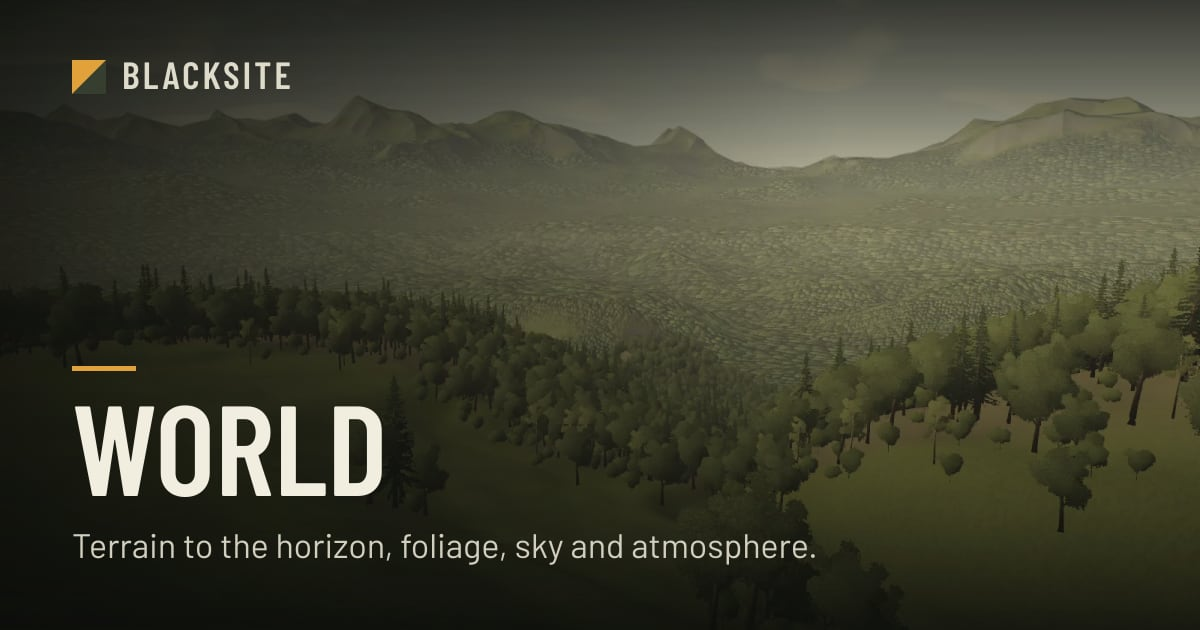
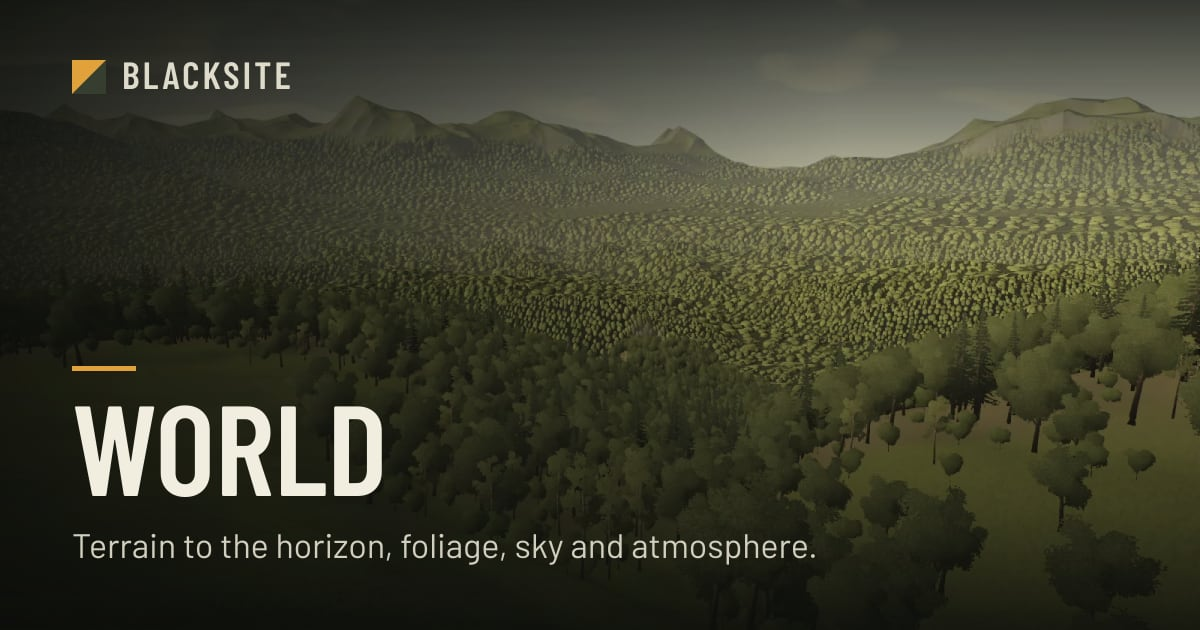
Round 4 beauty: view-shaped far crowns with dark gaps and a clear-air haze distance, a balanced meadow, forested valley floors, sharper phone impostors
- look: physical.clear keeps the near air haze-free (NATURE 1500 m, mie 24)
- landscape: canopy crowns are camera-facing spheres stretched by the grazing angle, nearer crowns overlap, sun-away sides and gaps go dark; impostor blur option (forest impostorBlur)
- valley: larger 8 m canopy crowns with yellow-green tops; knee-high patchy grass with seed heads, taller at forest edges and stones, straw patches in the carpet; meadow limited to the hilltop so lower slopes and valley floors are forest; phone impostors at 160 px with less mip blur; refreshed thumbnail and share image

diff --git a/packages/landscape/src/terrain.ts b/packages/landscape/src/terrain.ts
@@ -206,21 +206,34 @@ uniform vec3 terrainViewer;
 uniform vec4 canopyParams;
 uniform vec3 canopyColor;
 uniform vec3 canopyShade;
-vec4 bsCrowns(vec2 p, uint salt) {
+vec4 bsCrowns(vec2 p, uint salt, vec3 view, out float cover) {
   vec2 cell = floor(p);
   vec2 local = p - cell;
-  float top = -1.0;
-  vec4 result = vec4(0.0, 0.0, -1.0, 0.5);
+  vec2 along = view.xy;
+  vec2 side = vec2(-along.y, along.x);
+  float sine = view.z;
+  float cosine = sqrt(max(1.0 - sine * sine, 0.0));
+  float squash = max(sine, 0.3);
+  vec2 stretch = vec2(sqrt(squash), inversesqrt(squash));
+  float top = -1e9;
+  cover = -1.0;
+  vec4 result = vec4(0.0, 1.0, 0.0, 0.5);
   for (int j = -1; j <= 1; j++) for (int i = -1; i <= 1; i++) {
     ivec2 id = ivec2(cell) + ivec2(i, j);
     vec2 centre = vec2(float(i), float(j)) + 0.2 + 0.6 * vec2(bsHash(id, salt), bsHash(id, salt + 2u));
-    float radius = 0.38 + 0.3 * bsHash(id, salt + 4u);
+    float radius = 0.4 + 0.3 * bsHash(id, salt + 4u);
     vec2 r = local - centre;
-    float d2 = dot(r, r) / (radius * radius);
-    float h = sqrt(max(1.0 - d2, 0.0)) * radius + bsHash(id, salt + 6u) * 0.35;
-    if (d2 < 1.0 && h > top) { top = h; result = vec4(normalize(vec3(r / radius, sqrt(max(1.0 - d2, 0.02)))), bsHash(id, salt + 8u)); }
+    vec2 e = vec2(dot(r, side), dot(r, along)) / (radius * stretch);
+    float d2 = dot(e, e);
+    float z = sqrt(max(1.0 - d2, 0.0));
+    float key = (z * radius + bsHash(id, salt + 6u) * 0.35) * sine - dot(centre, along) * cosine;
+    if (d2 < 1.0 && key > top) { top = key; cover = z; result = vec4(e, max(z, 0.14), bsHash(id, salt + 8u)); }
   }
-  return result;
+  if (cover < 0.0) return result;
+  vec3 c = vec3(-along.x * cosine, sine, -along.y * cosine);
+  vec3 u = vec3(along.x * sine, cosine, along.y * sine);
+  vec3 s = vec3(side.x, 0.0, side.y);
+  return vec4(normalize(s * result.x + u * result.y + c * result.z), result.w);
 }
 uniform float terrainDetail;
 uniform vec2 terrainCoverShade;
@@ -283,24 +296,34 @@ if (vTerrainCanopy > 0.001) {
   float l0 = min(floor(level), 2.0);
   float lf = level - l0;
   float s0 = canopyParams.w * exp2(l0);
+  vec3 bsToEye = cameraPosition - vTerrainWorld;
+  vec2 bsAway = -bsToEye.xz / max(length(bsToEye.xz), 1e-3);
+  vec3 bsView = vec3(bsAway, clamp(dot(bsToEye, bsBase) / max(length(bsToEye), 1e-3), 0.0, 1.0));
+  float k0;
+  float k1;
 #ifdef CANOPY_DITHER
   float pick = step(fract(52.9829189 * fract(dot(gl_FragCoord.xy, vec2(0.06711056, 0.00583715)))), lf);
-  vec4 c0 = bsCrowns(vTerrainWorld.xz / (s0 * (1.0 + pick)), pick > 0.5 ? 74u + uint(l0) * 13u : 61u + uint(l0) * 13u);
+  vec4 c0 = bsCrowns(vTerrainWorld.xz / (s0 * (1.0 + pick)), pick > 0.5 ? 74u + uint(l0) * 13u : 61u + uint(l0) * 13u, bsView, k0);
   vec4 c1 = c0;
+  k1 = k0;
 #else
-  vec4 c0 = bsCrowns(vTerrainWorld.xz / s0, 61u + uint(l0) * 13u);
-  vec4 c1 = bsCrowns(vTerrainWorld.xz / (s0 * 2.0), 74u + uint(l0) * 13u);
+  vec4 c0 = bsCrowns(vTerrainWorld.xz / s0, 61u + uint(l0) * 13u, bsView, k0);
+  vec4 c1 = bsCrowns(vTerrainWorld.xz / (s0 * 2.0), 74u + uint(l0) * 13u, bsView, k1);
 #endif
-  vec3 dome = normalize(mix(c0.z < 0.0 ? vec3(0.0, 0.0, 1.0) : c0.xyz, c1.z < 0.0 ? vec3(0.0, 0.0, 1.0) : c1.xyz, lf));
-  float top = mix(c0.z, c1.z, lf);
+  vec3 lump = normalize(mix(c0.xyz, c1.xyz, lf));
+  float top = mix(k0, k1, lf);
+  float rim = mix(max(k0, 0.0), max(k1, 0.0), lf);
   float tone = mix(fract(c0.w), fract(c1.w), lf);
   float covered = smoothstep(-0.6, 0.2, top);
   float relief = 1.0 / (1.0 + level * 0.3);
-  vec3 lump = normalize(vec3(dome.x, dome.z * 0.9, dome.y));
   vec3 canopyNormal = normalize(mix(bsBase, lump, (0.68 * covered + 0.15) * lumpFade * relief + 0.1));
-  float crownAo = mix(0.78 - 0.62 * relief, mix(0.3, 1.0, smoothstep(0.0, 0.8, dome.z)), covered);
+  float sunSide = 1.0;
+#if NUM_DIR_LIGHTS > 0
+  sunSide = smoothstep(-0.25, 0.55, dot(normalize((viewMatrix * vec4(lump, 0.0)).xyz), directionalLights[0].direction));
+#endif
+  float crownAo = mix(0.52 - 0.48 * relief, mix(0.16, 1.0, smoothstep(0.0, 0.75, rim)) * mix(0.28, 1.0, sunSide), covered);
   vec3 cellAlbedo = mix(canopyShade, canopyColor * (0.62 + tone * 0.76), crownAo);
-  vec3 meanAlbedo = mix(canopyShade, canopyColor * 0.95, 0.76);
+  vec3 meanAlbedo = mix(canopyShade, canopyColor * 0.95, 0.5);
   vec3 canopyAlbedo = mix(meanAlbedo, cellAlbedo, lumpFade);
   canopyAlbedo *= 0.85 + bsMacro * 0.3;
   bsAlbedo = mix(bsAlbedo, canopyAlbedo, vTerrainCanopy);

diff --git a/examples/valley/src/Landscape.tsx b/examples/valley/src/Landscape.tsx
@@ -36,7 +36,7 @@ export function Landscape({ world, tier, wind, sun, bark, handle }: { world: Val
         { tile: 2.2, tint: [0.92, 0.84, 0.72], roughness: 0.9, normalScale: 1 },
         { tile: 3.5, tint: [0.86, 0.84, 0.8], roughness: 0.85, normalScale: 1.2 },
       ],
-      canopy: { height: canopy.height, start: settings.impostorFar[0] - canopy.lead, end: settings.impostorFar[1] - canopy.lead, crown: canopy.crown, color: [0.09, 0.118, 0.036], shade: [0.012, 0.02, 0.008], dither: tier === 'low' },
+      canopy: { height: canopy.height, start: settings.impostorFar[0] - canopy.lead, end: settings.impostorFar[1] - canopy.lead, crown: canopy.crown, color: [0.125, 0.15, 0.03], shade: [0.004, 0.007, 0.009], dither: tier === 'low' },
       detailDistance: tier === 'low' ? 140 : 260,
       coverShade: { distance: settings.coverDistance, strength: 0.4 },
       shadowDistance: settings.shadowDistance,
@@ -50,8 +50,8 @@ export function Landscape({ world, tier, wind, sun, bark, handle }: { world: Val
       density: settings.coverDensity,
       alphaToCoverage: settings.a2c,
       families: [
-        { name: 'sward', shape: 'clump', perPatch: 1800, mask: MEADOW, height: 'mix(0.55, 1.45, smoothstep(0.25, 0.8, bsNoise(bsRoot * 0.022, 81u)))', size: [0.05, 0.11], width: 2.3, quads: 2, texture: grassTexture(128, 29), colors: [[0.44, 0.6, 0.25], [0.66, 0.65, 0.35], [0.6, 0.66, 0.34]], bend: 0.3, translucency: 0.35, ao: 0.72, roughness: 0.85 },
-        { name: 'stalks', shape: 'clump', perPatch: 110, mask: `${MEADOW} * (0.04 + 0.96 * smoothstep(0.52, 0.76, bsNoise(bsRoot * 0.05, 83u)))`, height: 'mix(0.7, 1.25, bsNoise(bsRoot * 0.03, 85u))', size: [0.3, 0.6], width: 0.55, quads: 2, texture: grassTexture(), colors: [[0.6, 0.62, 0.34], [0.78, 0.72, 0.44], [0.9, 0.82, 0.56]], bend: 0.42, translucency: 0.4, ao: 0.55, roughness: 0.82 },
+        { name: 'sward', shape: 'clump', perPatch: 1800, mask: MEADOW, height: 'mix(0.55, 1.45, smoothstep(0.25, 0.8, bsNoise(bsRoot * 0.022, 81u)))', size: [0.05, 0.11], width: 2.3, quads: 2, texture: grassTexture(128, 29), colors: [[0.44, 0.6, 0.25], [0.76, 0.69, 0.4], [0.6, 0.66, 0.34]], bend: 0.3, translucency: 0.35, ao: 0.72, roughness: 0.85 },
+        { name: 'tall', shape: 'clump', perPatch: 430, mask: `${MEADOW} * clamp(0.06 + smoothstep(0.44, 0.64, bsNoise(bsRoot * 0.04, 83u) * 0.65 + bsNoise(bsRoot * 0.13, 89u) * 0.35) + smoothstep(0.06, 0.3, bsSurface.b) * 0.9 + smoothstep(0.5, 0.7, bsNoise(bsRoot * 0.05, 87u)) * 0.7, 0.0, 1.0)`, height: 'mix(0.75, 1.2, bsNoise(bsRoot * 0.03, 85u)) * (1.0 + 0.35 * smoothstep(0.06, 0.3, bsSurface.b))', size: [0.34, 0.7], width: 0.75, quads: 3, texture: grassTexture(), colors: [[0.54, 0.62, 0.3], [0.8, 0.72, 0.42], [0.9, 0.82, 0.55]], bend: 0.42, translucency: 0.4, ao: 0.55, roughness: 0.82 },
         { name: 'flowers', shape: 'flower', perPatch: 60, mask: `${MEADOW} * (0.3 + 0.7 * smoothstep(0.45, 0.7, bsNoise(bsRoot * 0.045, 71u)))`, size: [0.16, 0.3], width: 0.4, texture: flowerTexture(), colors: [[1, 0.84, 0.3], [1, 1, 1], [0.78, 0.62, 1]], bend: 0.3, translucency: 0.25, ao: 0.6, fade: 0.8 },
         { name: 'stones', shape: 'pebble', perPatch: 3, mask: `${MEADOW} * smoothstep(0.52, 0.78, bsNoise(bsRoot * 0.05, 87u))`, size: [0.18, 0.5], colors: [[0.56, 0.54, 0.5], [0.66, 0.63, 0.58], [0.48, 0.46, 0.42]], ao: 1, fade: 0.6, roughness: 0.8 },
         { name: 'understory', shape: 'clump', perPatch: 70, mask: 'smoothstep(0.35, 0.7, bsSurface.b) * smoothstep(0.35, 0.6, bsNoise(bsRoot * 0.06, 73u)) * (1.0 - bsSurface.a)', size: [0.35, 0.65], width: 1.1, quads: 3, texture: grassTexture(256, 19), colors: [[0.42, 0.5, 0.26], [0.55, 0.58, 0.3], [0.7, 0.62, 0.36]], bend: 0.3, translucency: 0.3, ao: 0.35, fade: 0.75 },
@@ -89,6 +89,7 @@ export function Landscape({ world, tier, wind, sun, bark, handle }: { world: Val
       far: settings.impostorFar,
       shadowDistance: settings.shadowDistance,
       frameSize: settings.frameSize,
+      impostorBlur: settings.impostorBlur,
       alphaToCoverage: settings.a2c,
       singleFrame: settings.singleFrame,
       sun: sunState,

diff --git a/examples/valley/src/model.ts b/examples/valley/src/model.ts
@@ -19,12 +19,12 @@ export const site = {
 } as const
 
 export const tiers = {
-  high: { trees: 64000, nearTrees: 70, nearFade: [48, 70] as const, impostorFar: [640, 940] as const, frameSize: 192, coverDistance: 75, coverDensity: 1, cascades: 3, shadowDistance: 180, shadowMap: 2048, a2c: true, singleFrame: false },
-  medium: { trees: 44000, nearTrees: 58, nearFade: [40, 58] as const, impostorFar: [560, 820] as const, frameSize: 160, coverDistance: 60, coverDensity: 0.8, cascades: 2, shadowDistance: 130, shadowMap: 2048, a2c: true, singleFrame: false },
-  low: { trees: 28000, nearTrees: 42, nearFade: [28, 42] as const, impostorFar: [440, 660] as const, frameSize: 128, coverDistance: 45, coverDensity: 0.8, cascades: 2, shadowDistance: 90, shadowMap: 1024, a2c: false, singleFrame: true },
+  high: { trees: 64000, nearTrees: 70, nearFade: [48, 70] as const, impostorFar: [640, 940] as const, frameSize: 192, impostorBlur: 1.25, coverDistance: 75, coverDensity: 1, cascades: 3, shadowDistance: 180, shadowMap: 2048, a2c: true, singleFrame: false },
+  medium: { trees: 44000, nearTrees: 58, nearFade: [40, 58] as const, impostorFar: [560, 820] as const, frameSize: 160, impostorBlur: 1.25, coverDistance: 60, coverDensity: 0.8, cascades: 2, shadowDistance: 130, shadowMap: 2048, a2c: true, singleFrame: false },
+  low: { trees: 28000, nearTrees: 42, nearFade: [28, 42] as const, impostorFar: [440, 660] as const, frameSize: 160, impostorBlur: 0.5, coverDistance: 45, coverDensity: 0.8, cascades: 2, shadowDistance: 90, shadowMap: 1024, a2c: false, singleFrame: true },
 } as const
 
-export const canopy = { height: 13, crown: 5.5, lead: 90 } as const
+export const canopy = { height: 13, crown: 8, lead: 90 } as const
 
 export const locomotion = {
   walk: 1.75,

diff --git a/examples/valley/src/world.ts b/examples/valley/src/world.ts
@@ -163,17 +163,18 @@ export async function buildValley(tier: Tier, onProgress: (value: number) => voi
   const sources: TerrainSources = { near, far, nearSurface: null as never, farSurface: null as never, band: site.band }
   const heightAtWorld = (x: number, z: number) => terrainHeightAt(sources, x, z)
 
+  const summit = heightAt(far, site.meadowCentre[0], site.meadowCentre[1])
   const forest = (x: number, z: number) => {
     const wobble = (fbm(x / 140, z / 140, 3, 501) - 0.5) * 190
-    const meadow = 1 - smoothstep(site.meadowRadius - 50, site.meadowRadius + 70, Math.hypot(x - site.meadowCentre[0], z - site.meadowCentre[1]) + wobble)
     const h = heightAt(far, x, z)
+    const meadow = (1 - smoothstep(site.meadowRadius - 50, site.meadowRadius + 70, Math.hypot(x - site.meadowCentre[0], z - site.meadowCentre[1]) + wobble)) * smoothstep(summit - 70, summit - 35, h + wobble * 0.15)
     const local = 1 - smoothstep(900, 1400, Math.hypot(x, z))
     const relief = 1 - smoothstep(pathTop - 20, pathTop + 70, h) * local
     const patches = fbm(x / 260, z / 260, 3, 503)
     let density = smoothstep(0.3, 0.46, patches * 0.6 + relief * 0.35 + 0.12)
     density *= 1 - meadow
     density *= 1 - smoothstep(site.treeline - 220, site.treeline, h)
-    density *= 1 - smoothstep(34, 46, slopeAt(far, x, z))
+    density *= 1 - smoothstep(40, 54, slopeAt(far, x, z))
     const grove = smoothstep(0.8, 0.88, valueNoise(x / 34, z / 34, 507)) * meadow * (1 - smoothstep(site.meadowRadius * 0.45, site.meadowRadius * 0.7, Math.hypot(x, z)) * 0)
     density = Math.max(density, grove * 0.9)
     const lane = pathDistance(x, z)

diff --git a/packages/landscape/src/impostor.ts b/packages/landscape/src/impostor.ts
@@ -229,6 +229,7 @@ uniform sampler2D impostorNormal;
 uniform float impostorFrames;
 uniform vec3 impostorTint;
 uniform float impostorContact;
+uniform float impostorBlur;
 varying vec2 vImpostorGrid;
 varying vec2 vImpostorUv;
 varying vec3 vImpostorFade;
@@ -242,7 +243,7 @@ vec2 bsFrameUv(vec2 frame) {
 
 const FRAGMENT_SAMPLE = /* glsl */ `
 float bsSmudge = vImpostorFade.z;
-float bsBias = bsSmudge * 1.25;
+float bsBias = bsSmudge * impostorBlur;
 #ifdef IMPOSTOR_SINGLE
 vec2 bsFrame = clamp(floor(vImpostorGrid + 0.5), vec2(0.0), vec2(impostorFrames - 1.0));
 vec4 bsA = texture2D(impostorAlbedo, bsFrameUv(bsFrame), bsBias);
@@ -290,6 +291,7 @@ export interface ImpostorMaterialOptions {
   readonly singleFrame?: boolean
   readonly tint?: readonly [number, number, number]
   readonly contact?: number
+  readonly blur?: number
 }
 
 export function createImpostorMaterial(options: ImpostorMaterialOptions): MeshStandardMaterial {
@@ -306,6 +308,7 @@ export function createImpostorMaterial(options: ImpostorMaterialOptions): MeshSt
     impostorRange: { value: new Vector4(...options.range) },
     impostorTint: { value: new Vector3(...(options.tint ?? [1, 1, 1])) },
     impostorContact: { value: options.contact ?? 1 },
+    impostorBlur: { value: options.blur ?? 1.25 },
   }
   material.userData.impostor = uniforms
   patchMaterial(material, `world-impostor-${options.singleFrame ? 1 : 4}-${options.alphaToCoverage ? 'a2c' : 'cut'}`, shader => {

diff --git a/packages/look/src/physical.ts b/packages/look/src/physical.ts
@@ -32,6 +32,7 @@ export const ATMOSPHERE_CORE = `
   uniform vec3 atSun;
   uniform float atIlluminance;
   uniform float atSkyGain;
+  uniform float atClear;
 
   vec3 atExtinction(float h, out vec3 rayleigh, out float mie) {
     float height = max(h, 0.0);
@@ -424,6 +425,7 @@ export interface AtmosphereUniforms {
   readonly atSun: Uniform<Vector3>;
   readonly atIlluminance: Uniform<number>;
   readonly atSkyGain: Uniform<number>;
+  readonly atClear: Uniform<number>;
 }
 
 export interface AtmosphereLuts {
@@ -471,6 +473,7 @@ export function createAtmosphereLuts(renderer: WebGLRenderer, settings: QualityS
     atSun: new Uniform(new Vector3(0, 1, 0)),
     atIlluminance: new Uniform(1),
     atSkyGain: new Uniform(1),
+    atClear: new Uniform(0),
   };
   const geometry = new BufferGeometry();
   geometry.setAttribute('position', new Float32BufferAttribute([-1, -1, 0, 3, -1, 0, -1, 3, 0], 3));
@@ -517,6 +520,7 @@ export function createAtmosphereLuts(renderer: WebGLRenderer, settings: QualityS
       uniforms.atAltitude.value = Math.max(spec.elevation, 1) * 0.001;
       uniforms.atIlluminance.value = spec.illuminance;
       uniforms.atSkyGain.value = spec.sky ?? 1;
+      uniforms.atClear.value = spec.clear ?? 0;
       sun.set(...atmosphere.sun.direction).normalize();
       const key = mediumKey(spec);
       if (key !== medium) {

diff --git a/packages/landscape/src/forest.ts b/packages/landscape/src/forest.ts
@@ -33,6 +33,7 @@ export interface ForestOptions {
   readonly frameSize?: number
   readonly alphaToCoverage?: boolean
   readonly singleFrame?: boolean
+  readonly impostorBlur?: number
   readonly proxyLayer?: number
   readonly sun?: { readonly direction: Vector3; readonly color: Color }
   readonly seed?: number
@@ -214,7 +215,7 @@ export function createForest(options: ForestOptions): Forest {
     const atlas = bakeImpostor(options.renderer, model, textures, { frames: options.frames, frameSize: options.frameSize })
     stats.bakeMs += atlas.milliseconds
     atlases.push(atlas)
-    const impostorMaterial = createImpostorMaterial({ atlas, wind, range: [options.near[0], options.near[1], options.far[0], options.far[1]], alphaToCoverage: options.alphaToCoverage, singleFrame: options.singleFrame })
+    const impostorMaterial = createImpostorMaterial({ atlas, wind, range: [options.near[0], options.near[1], options.far[0], options.far[1]], alphaToCoverage: options.alphaToCoverage, singleFrame: options.singleFrame, blur: options.impostorBlur })
     const indices: number[] = []
     for (let index = 0; index < total; index++) if (kinds[index] === kind) indices.push(index)
     const plane = new PlaneGeometry(1, 1)

diff --git a/packages/look/src/aerial.ts b/packages/look/src/aerial.ts
@@ -45,7 +45,7 @@ const AERIAL_FRAGMENT = `
     float h1 = max(y1 + atElevation, 0.0) * 0.001;
     vec3 tauAir = (atRayleigh * atLayer(h0, h1, km, 8.0) + atMieExtinction * atLayer(h0, h1, km, 1.2)) * atAerial;
     float tauFog = atFog.x > 0.0 ? atFog.x * atLayer(max(y0 - atFog.y, 0.0), max(y1 - atFog.y, 0.0), span, atFog.z) : 0.0;
-    vec3 tau = tauAir + tauFog;
+    vec3 tau = (tauAir + tauFog) * clamp(1.0 - atClear / max(span, 1.0), 0.0, 1.0);
     vec3 transmittance = exp(-tau);
     vec3 horizon = normalize(vec3(direction.x, max(direction.y, 0.0), direction.z));
     vec3 air = atSky(horizon);
@@ -55,7 +55,7 @@ const AERIAL_FRAGMENT = `
       vec3 sunlight = atSunlight(r, atSun.y) * atPhaseHg(dot(direction, atSun), 0.55);
       fog = atFogTint * (atSky(vec3(0.0, 1.0, 0.0)) * 0.55 + air * 0.45 + sunlight);
     }
-    vec3 weight = vec3(tauFog) / max(tau, vec3(1e-6));
+    vec3 weight = vec3(tauFog) / max(tauAir + tauFog, vec3(1e-6));
     vec3 inscatter = mix(air, fog, weight) * (1.0 - transmittance);
     outputColor = vec4(inputColor.rgb * transmittance + inscatter, inputColor.a);
   }

diff --git a/packages/look/src/presets.ts b/packages/look/src/presets.ts
@@ -45,13 +45,14 @@ export const NATURE: Atmosphere = {
   grade: { lut: lut('nature'), vignette: 0.16, split: 0, aberration: 0, grain: 0.006, curve: 'filmic', bloom: 0.45 },
   physical: {
     rayleigh: 0.4,
-    mie: 30,
+    mie: 24,
     mieAnisotropy: 0.8,
     ozone: 1,
     illuminance: 5.5,
     elevation: 400,
     aerial: 1.1,
     sky: 2.2,
+    clear: 1500,
     disk: 1,
     heightFog: { density: 0.00028, base: 120, falloff: 60, tint: [1, 0.97, 0.9] },
     clouds: { coverage: 0.37, altitude: 2.2, density: 1.05, scale: 1.4, wind: 1 },

diff --git a/packages/look/src/atmosphere.ts b/packages/look/src/atmosphere.ts
@@ -61,6 +61,7 @@ export interface PhysicalSkySpec {
   readonly elevation: number;
   readonly aerial: number;
   readonly sky?: number;
+  readonly clear?: number;
   readonly disk: number;
   readonly heightFog: HeightFogSpec | null;
   readonly clouds: CloudSpec | null;

diff --git a/packages/landscape/README.md b/packages/landscape/README.md
@@ -21,7 +21,7 @@ const heightAt = (x: number, z: number) => terrainHeightAt(sources, x, z)
 - `createHeightfield({ size, extent, origin?, sample? | heights? })` builds a square grid; `loadHeightmap(url, { spacing, minHeight, maxHeight, verticalScale?, origin? })` decodes a 16-bit greyscale PNG. `heightAt`, `normalAt`, `slopeAt` and `contains` sample a field on the CPU; `terrainHeightAt(sources, x, z)` samples the near/far blend exactly as the shaders do.
 - `surfaceTexture(field, masks?)` packs the terrain normal into `.rg` and two masks from `masks(x, z)` into `.b` and `.a`. Valley uses `.b` for forest and `.a` for path. Terrain splatting, the far canopy and cover masks all read this texture.
 - `createTerrain` draws a CDLOD quadtree of fixed world-space nodes (32 m leaves, a 32 × 32 grid, ranges at 2.4× node size) with one shared instanced grid mesh and a quadrant mesh. Vertices read heights in the vertex shader and morph toward the next coarser grid near each range edge, so there are no cracks, pops or swimming. The fragment shader splats four layers by slope, the two masks and noise, with per-tile offsets against repetition; detail fades to each layer's average colour past `detailDistance` (default 260 m).
-- `layerSpecs` gives each of the four layers `{ tile, tint, roughness, normalScale }`. `canopy` (`{ height, start, end, crown, color, shade, dither? }`) lifts the terrain under the forest mask by the crown height between `start` and `end` and shades it as procedural crowns with dark gaps: the far canopy that replaces impostors. Crowns group into clumps of two, four and eight crowns as the pixel footprint grows, so the canopy keeps its texture to the horizon without shimmer. Neighbouring levels blend, or with `dither: true` one level is picked per pixel, which halves the cost on phones.
+- `layerSpecs` gives each of the four layers `{ tile, tint, roughness, normalScale }`. `canopy` (`{ height, start, end, crown, color, shade, dither? }`) lifts the terrain under the forest mask by the crown height between `start` and `end` and shades it as procedural crowns with dark gaps: the far canopy that replaces impostors. Each crown is a sphere seen from the camera: its footprint stretches along the view direction by the grazing angle against the slope, so crowns stay round on screen instead of flattening into scales; nearer crowns overlap farther ones; and the side facing away from the sun and the gaps between crowns go dark. Crowns group into clumps of two, four and eight crowns as the pixel footprint grows, so the canopy keeps its texture to the horizon without shimmer. Neighbouring levels blend, or with `dither: true` one level is picked per pixel, which halves the cost on phones.
 - `coverShade` (`{ distance, strength }`) darkens the grass layer within `distance` of the viewer, as blades would shade the ground beneath them, so gaps in ground cover don't read as bright patches. Pass the cover distance.
 - `terrain.update(camera)` selects nodes each frame; `terrain.uniforms` is the `TerrainUniforms` other systems (cover) share. `TERRAIN_GLSL` exposes `terrainHeight(xz)`, `terrainSurface(xz)`, `terrainSurfaceLod(xz, lod)` and `terrainNormalOf(surface)` to custom shaders.
 
@@ -56,7 +56,7 @@ scene.add(forest.object)
 
 - `generateTree(species)` builds trunk, branch and leaf-card geometry with a `treeWind` attribute. `OAK`, `PINE` and `BIRCH` are the starting species (`TreeSpecies`: form, height, trunk, crown, leaf size and count, bark and leaf tints, seed).
 - `createForest` places trees by `density` and `choose` on a jittered `spacing` grid, keeps the top `count` by a stable rank, which an optional `priority(x, z)` multiplies so lower values are kept first (Valley keeps the forest round the playable area whole and thins it far away), reports `stats.candidates` before the cap, and draws near trees as instanced meshes within `near[1]`, impostors from `near[0]` out to `far[1]`, and invisible shadow proxies on `proxyLayer` (default 2) out to `shadowDistance`. Near meshes and impostors crossfade with complementary screen-space dither over `near`; impostors dither out over `far`, where the terrain canopy takes over. Call `forest.update(camera)` each frame.
-- `bakeImpostor(renderer, model, textures, { frames, frameSize, samples })` renders a hemi-octahedral atlas (default 8 × 8 frames of 192 px) of albedo and normal. `createImpostorMaterial({ atlas, wind, range, alphaToCoverage?, singleFrame?, tint? })` draws one quad per tree, blending four frames (or one with `singleFrame`), lit through the baked normals blended with a sphere normal round the crown, so each crown is lit on the sun side and shadowed underneath, with contact darkening toward its base (`contact`, default 1), and softened with distance. `createForest` calls both; use them directly for other instanced objects.
+- `bakeImpostor(renderer, model, textures, { frames, frameSize, samples })` renders a hemi-octahedral atlas (default 8 × 8 frames of 192 px) of albedo and normal. `createImpostorMaterial({ atlas, wind, range, alphaToCoverage?, singleFrame?, tint? })` draws one quad per tree, blending four frames (or one with `singleFrame`), lit through the baked normals blended with a sphere normal round the crown, so each crown is lit on the sun side and shadowed underneath, with contact darkening toward its base (`contact`, default 1), and softened with distance by a mip bias (`blur`, default 1.25; `createForest` takes it as `impostorBlur`). `createForest` calls both; use them directly for other instanced objects.
 - `grassTexture`, `flowerTexture`, `litterTexture`, `leafClusterTexture` and `needleClusterTexture` draw canvas textures procedurally from a seed.
 
 ## Wind

diff --git a/packages/look/README.md b/packages/look/README.md
@@ -102,11 +102,11 @@ An `Atmosphere` is plain data: `exposure`; `fog` as `{ color, near, far }` (`Fog
 | --- | --- | --- | --- | --- | --- | --- |
 | `zone` (`ZONE`) | Cold overcast grey-green ruins | 1.12 | linear 14 to 150, `[0.34, 0.37, 0.35]` | 0.85 | strength 1.5, pale | `luts/zone.cube`, vignette 0.38, aberration 0.12, grain 0.035 |
 | `haze` (`HAZE`) | Warm late-afternoon haze | 1.08 | exp2 density 0.011, `[0.55, 0.5, 0.37]` | 0.25 | strength 3.4, amber, low | `luts/haze.cube`, vignette 0.42, aberration 0.1, grain 0.025 |
-| `nature` (`NATURE`) | Warm, soft, filmic open country | 1.42 | physical: aerial perspective and height fog | creamy pale physical sky (`sky` 2.2) with cumulus, coverage 0.37 | physical, 5.5 illuminance, warm | filmic curve, `luts/nature.cube`, bloom 0.45, vignette 0.16, grain 0.006 |
+| `nature` (`NATURE`) | Warm, soft, filmic open country | 1.42 | physical: aerial perspective and height fog | creamy pale physical sky (`sky` 2.2, `clear` 1500 m) with cumulus, coverage 0.37 | physical, 5.5 illuminance, warm | filmic curve, `luts/nature.cube`, bloom 0.45, vignette 0.16, grain 0.006 |
 
 The sky dome is a back-faced unit sphere drawn at the far plane, so its size never fights the camera. It blends horizon to zenith, projects three-octave fbm cloud cover onto the dome, thins the cover toward the sun, adds a sun glow and disc when the overcast is low, and fades below the horizon into the ground colour. `createSky`, `createSkyMaterial` and `bakeSkyEnvironment` are exported for scenes that manage their own composer.
 
-Set `atmosphere.physical` and the look draws a physically based sky instead: transmittance, multiple-scattering and sky-view lookup tables, a cumulus cloud layer with billowed noise, lit tops and shaded bases near the horizon and analytic edge antialiasing, an environment baked from that sky, and an aerial-perspective pass that reads the depth buffer to add in-scattering and height fog to every surface, replacing three's fog. `createPhysicalSky`, `createAtmosphereLuts` and `AerialEffect` are exported. `physical.sky` brightens the visible sky and the ambient term of the clouds without changing the baked environment or the aerial in-scattering, so a paler sky does not wash out the land. The quality tier sets the lookup table sizes and cloud octaves. The technique is ported from web-ocean under MIT; see `NOTICE.md`.
+Set `atmosphere.physical` and the look draws a physically based sky instead: transmittance, multiple-scattering and sky-view lookup tables, a cumulus cloud layer with billowed noise, lit tops and shaded bases near the horizon and analytic edge antialiasing, an environment baked from that sky, and an aerial-perspective pass that reads the depth buffer to add in-scattering and height fog to every surface, replacing three's fog. `createPhysicalSky`, `createAtmosphereLuts` and `AerialEffect` are exported. `physical.clear` (metres) keeps the first stretch of air in front of the camera free of haze, scaling optical depth by `1 - clear / distance`, so the middle distance keeps its contrast while far hills stay hazy. `physical.sky` brightens the visible sky and the ambient term of the clouds without changing the baked environment or the aerial in-scattering, so a paler sky does not wash out the land. The quality tier sets the lookup table sizes and cloud octaves. The technique is ported from web-ocean under MIT; see `NOTICE.md`.
 
 ## Quality tiers
 
